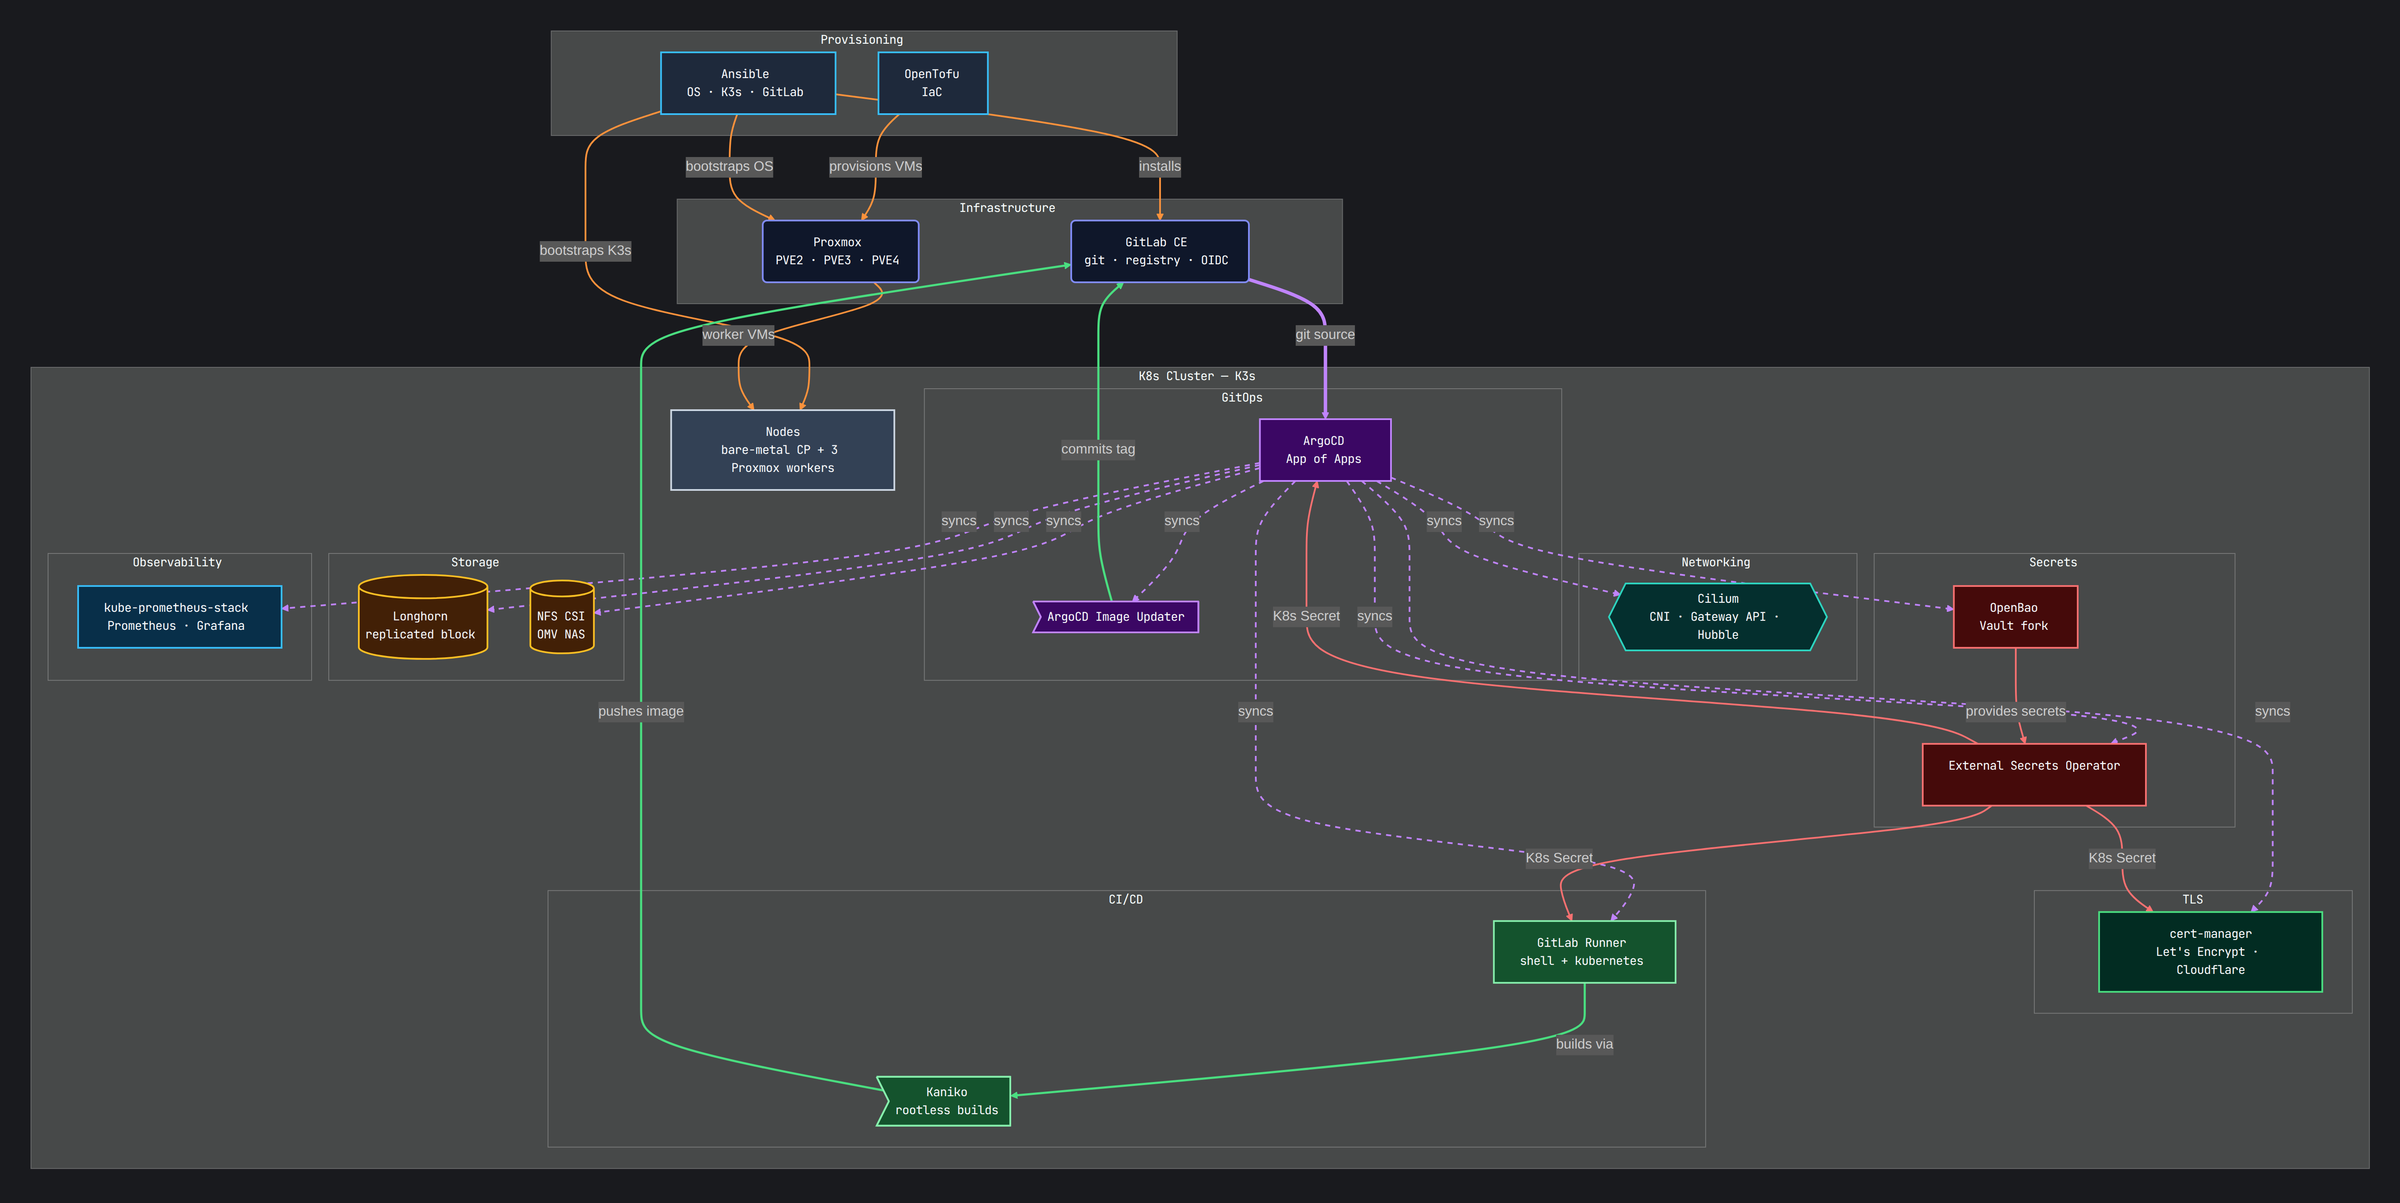
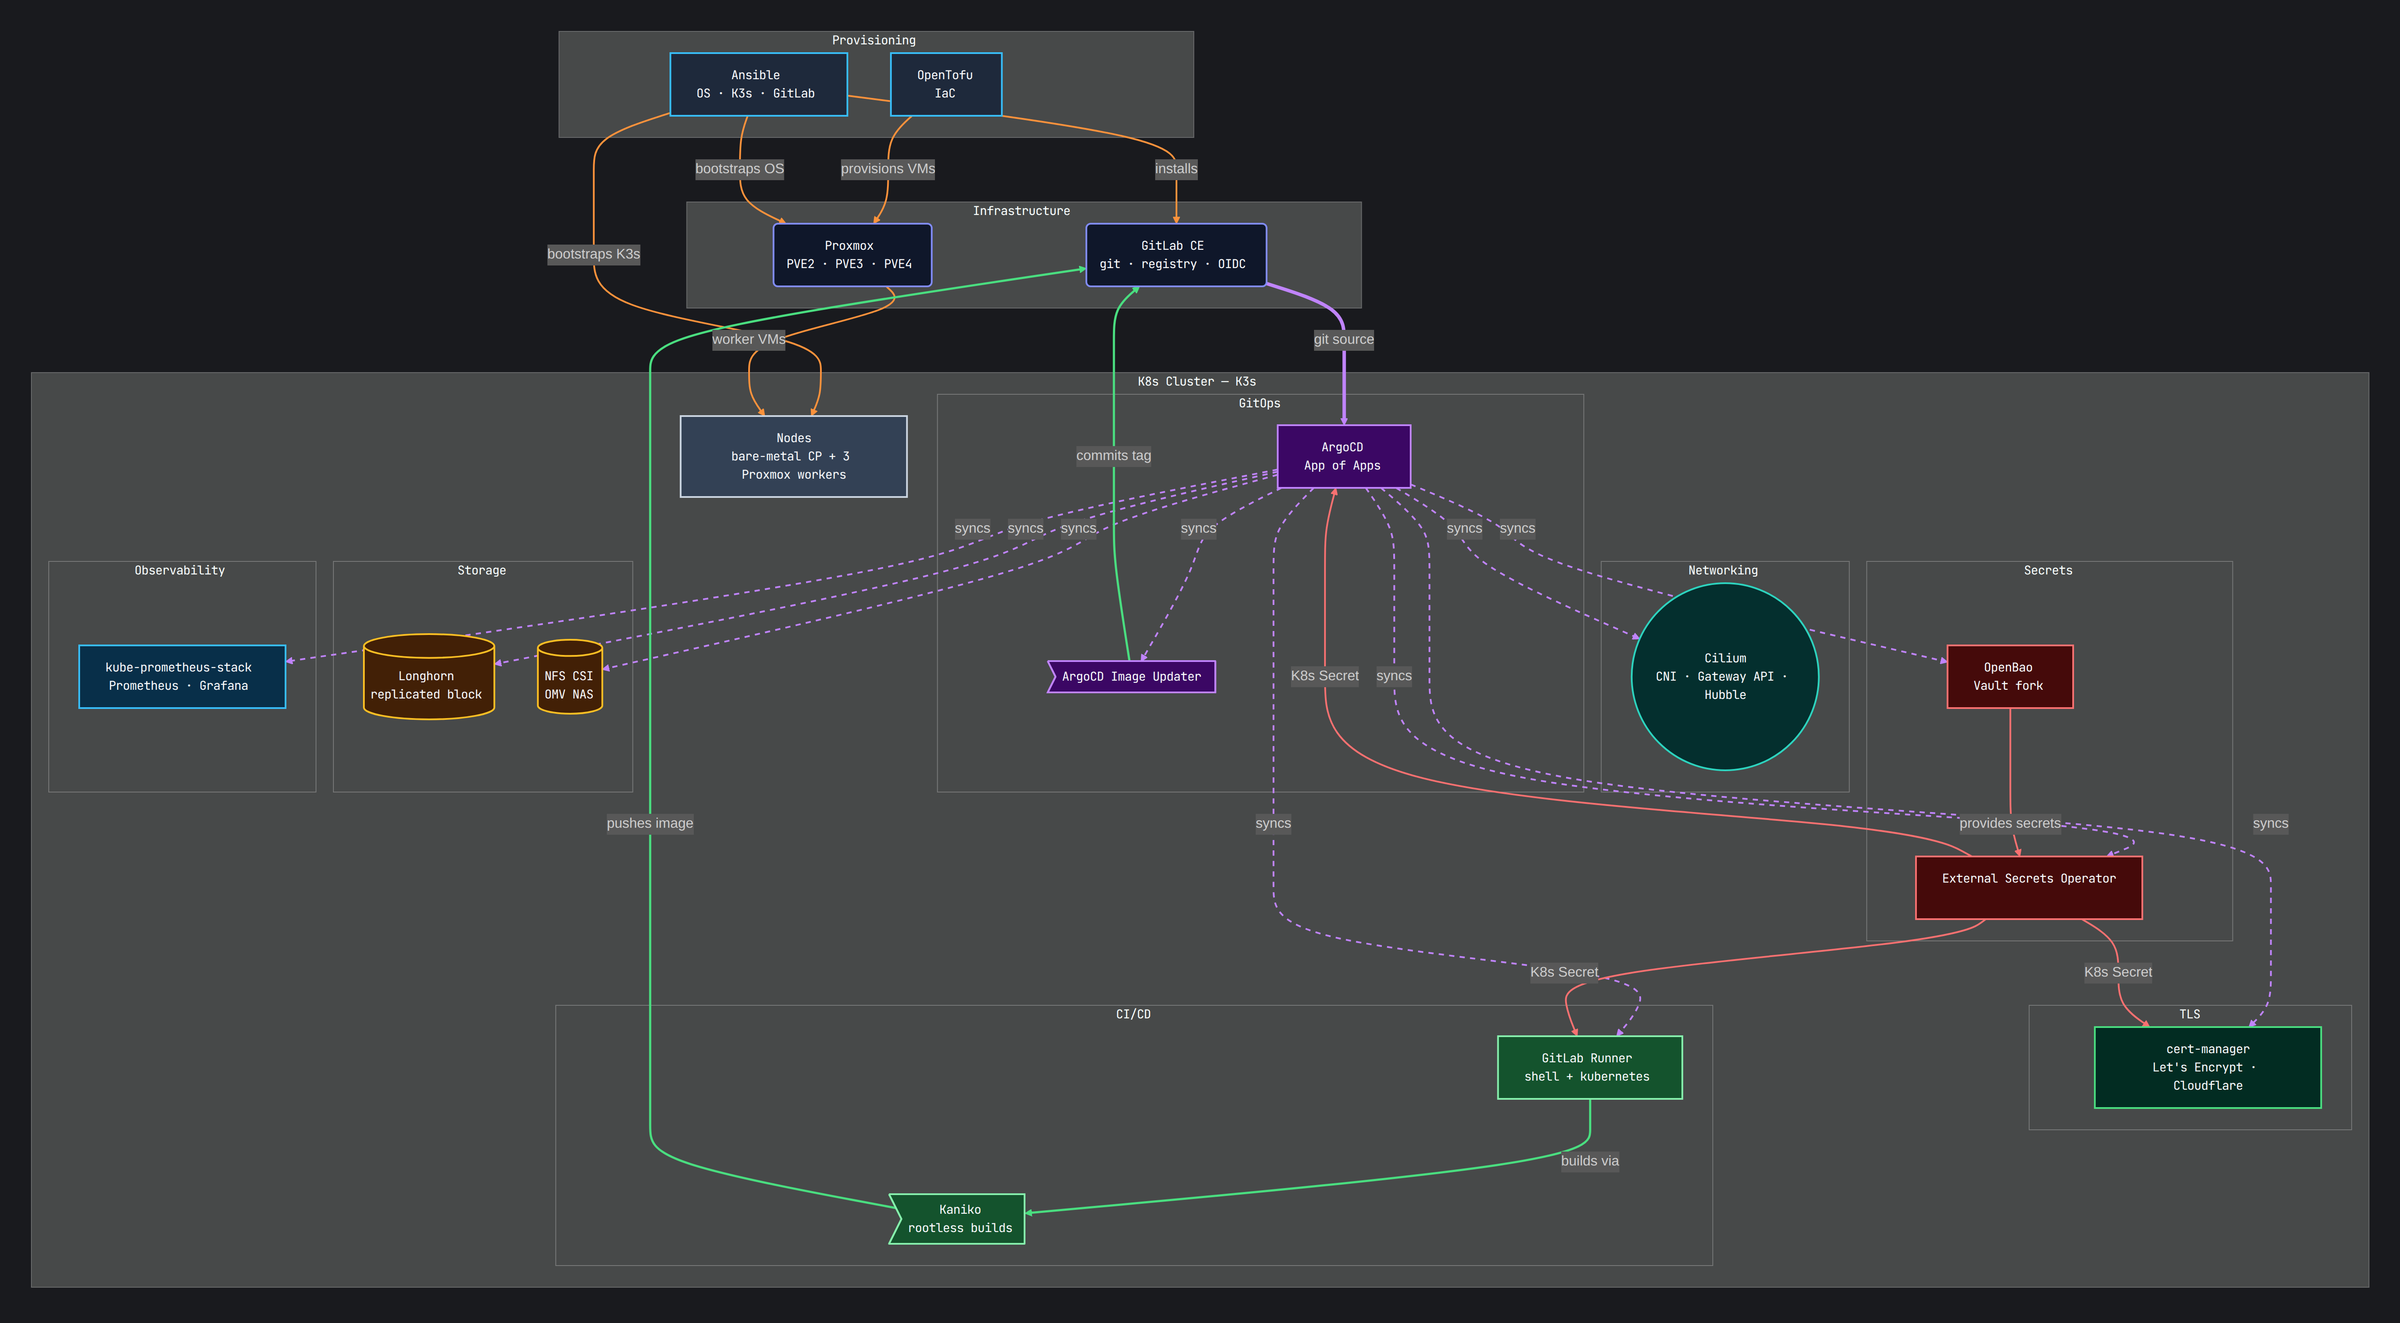
fix: Cilium {{hexagon}} eaten by Jekyll Liquid, breaks mermaid render
{{...}} is Liquid output syntax, so Jekyll ran it before markdown and
stripped the shape, leaving CILCilium... -> mermaid 'Syntax error in text'.
Swap to Liquid-safe circle ((...)). Regenerate dark hero to match.

diff --git a/_posts/2026-08-01-homelab-k8s-gitops-series.md b/_posts/2026-08-01-homelab-k8s-gitops-series.md
@@ -102,7 +102,7 @@ flowchart TD
         NODES["Nodes\nbare-metal CP + 3 Proxmox workers"]
 
         subgraph "Networking"
-            CIL{{"Cilium\nCNI · Gateway API · Hubble"}}
+            CIL(("Cilium\nCNI · Gateway API · Hubble"))
         end
 
         subgraph "GitOps"
